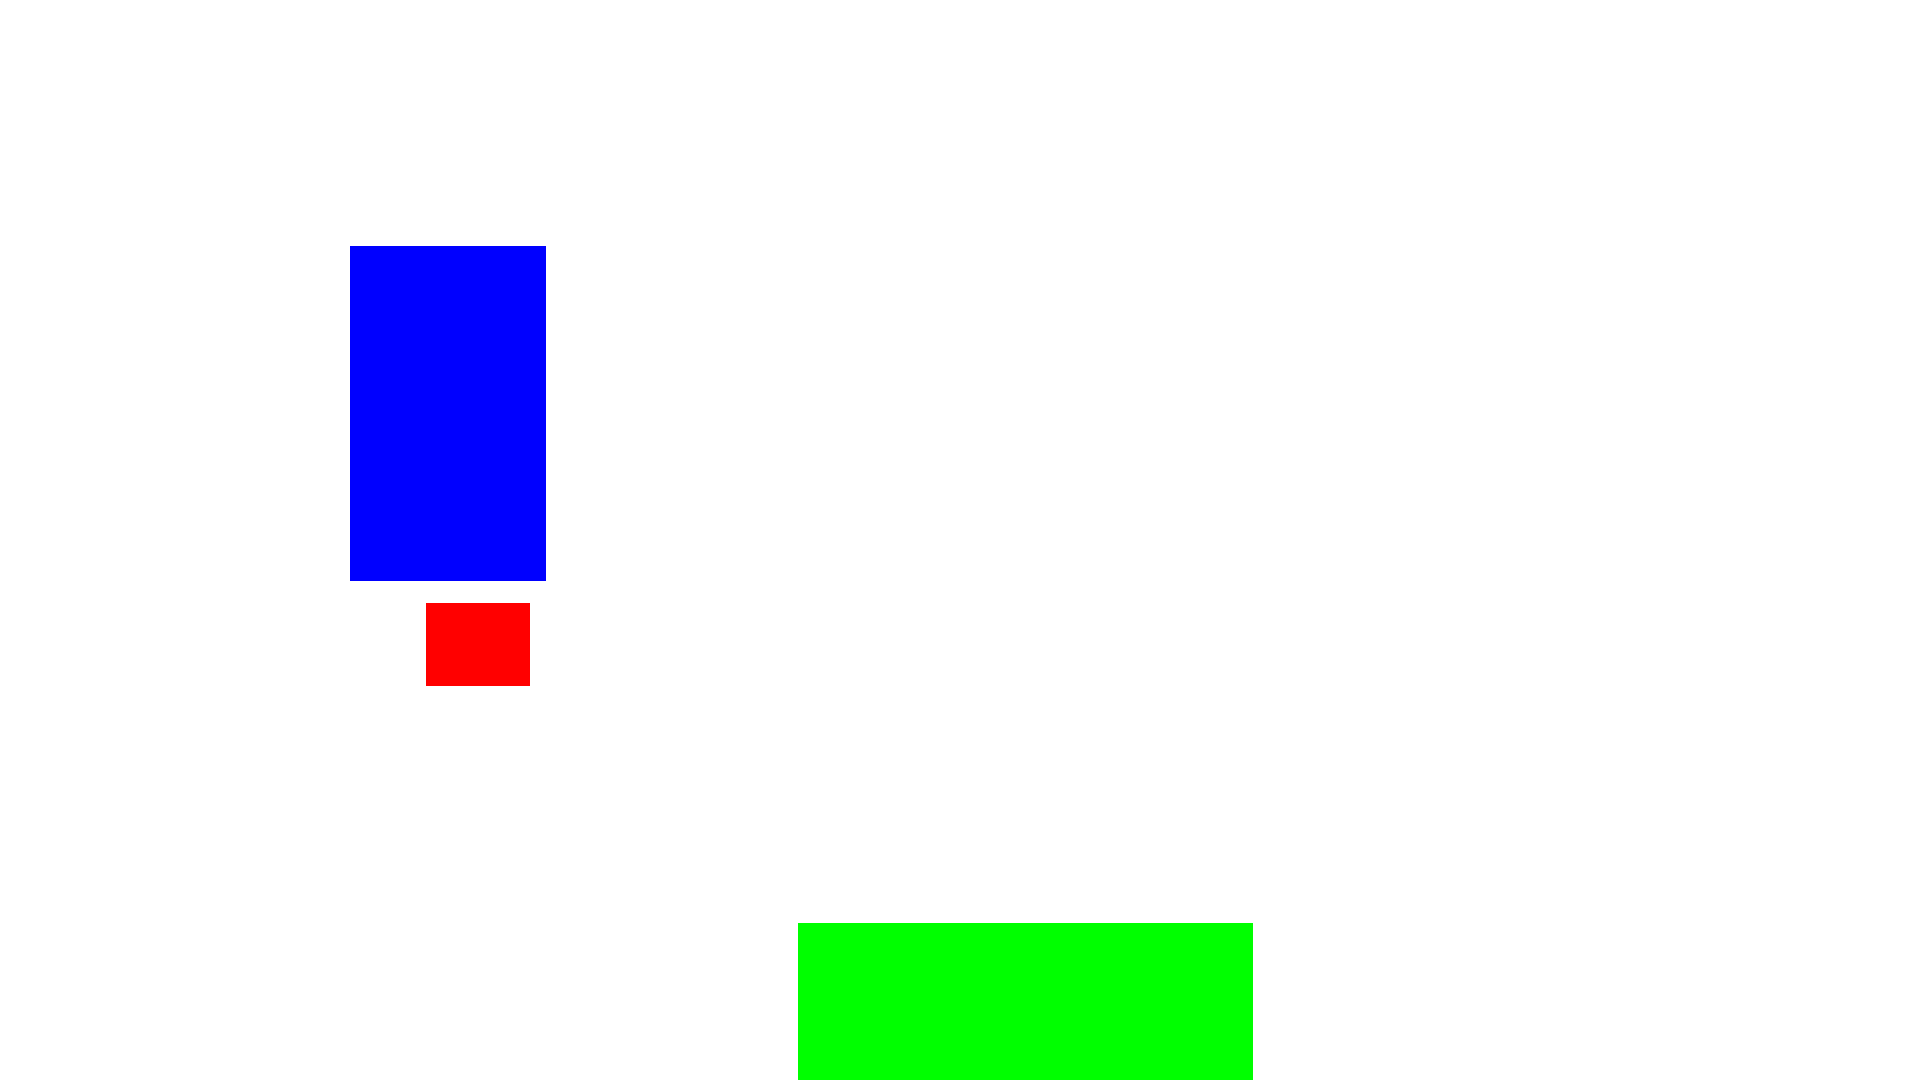
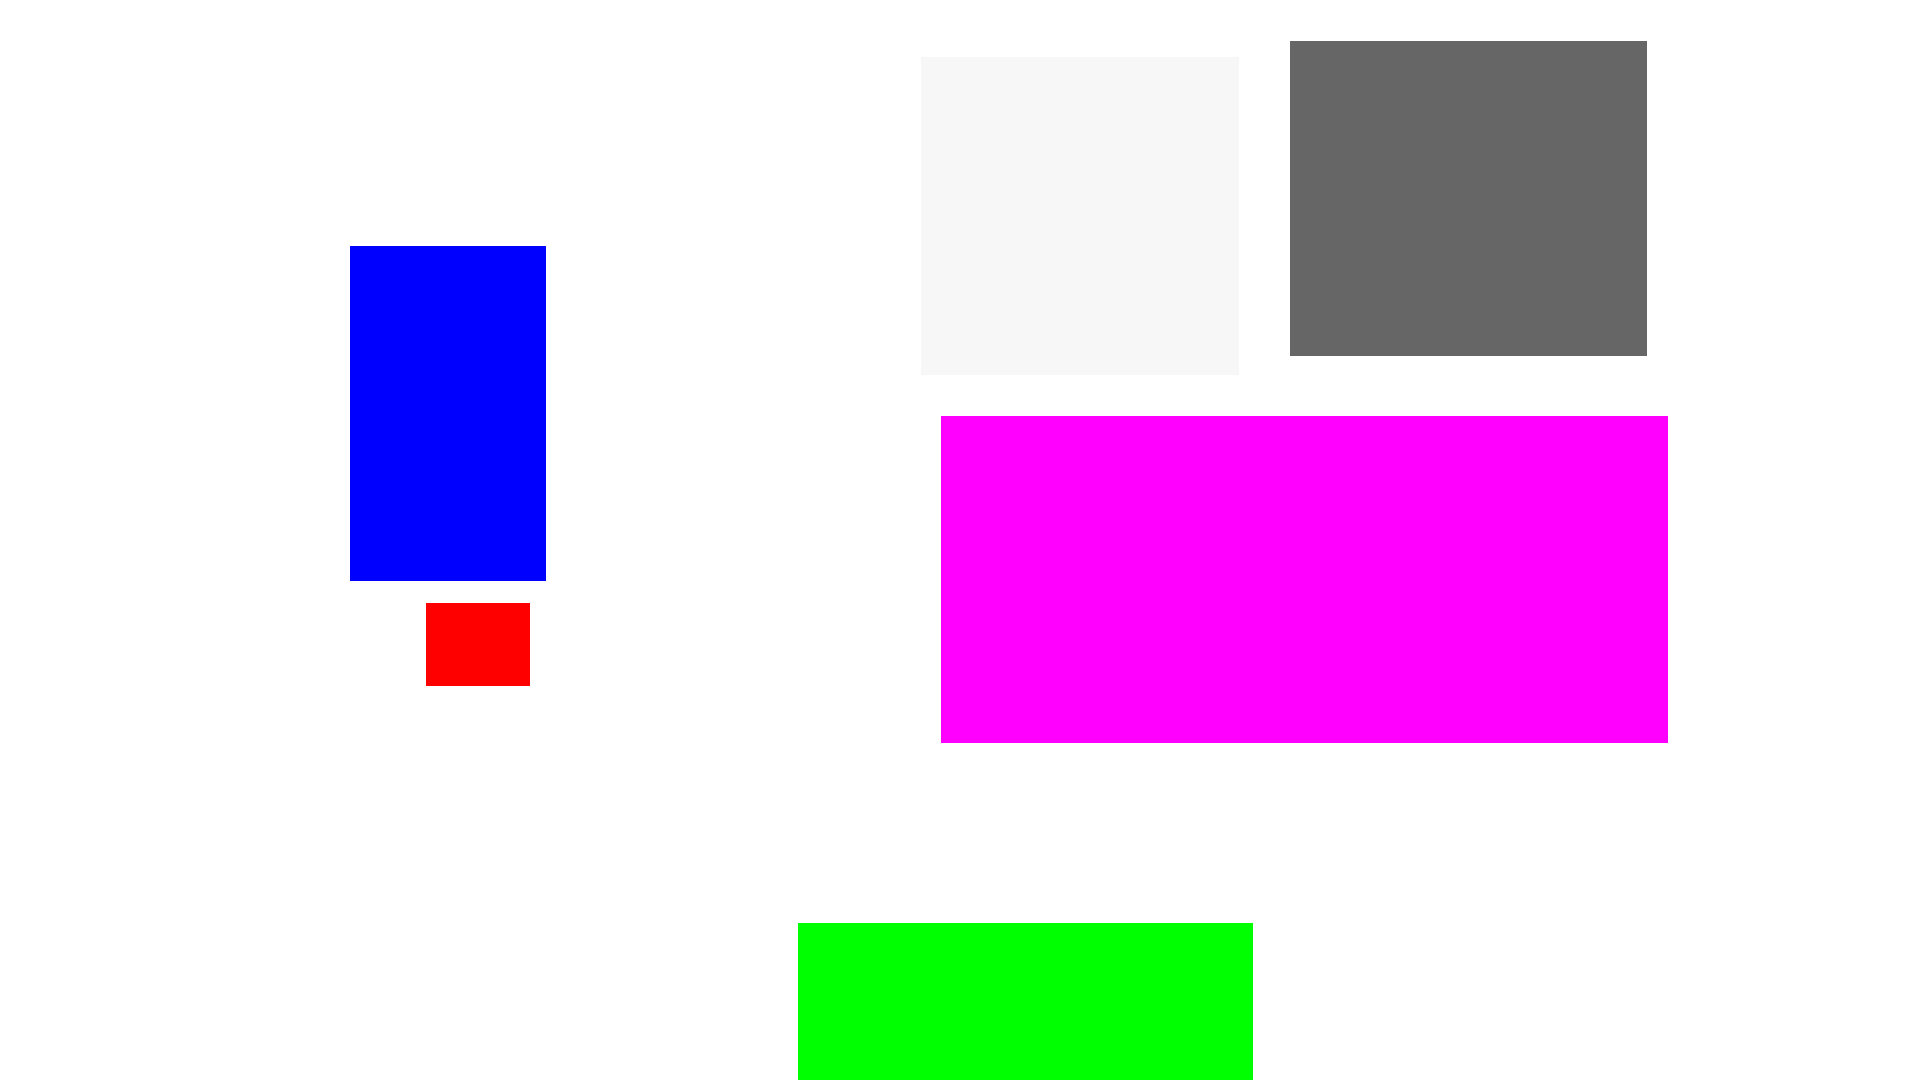
Commit from 2024-07-01_12:28:29

Changed region(s): [[0.4688, 0.3667, 0.875, 0.7028], [0.6562, 0.0306, 0.875, 0.3361]]

diff --git a/escaperoom/start-3.html b/escaperoom/start-3.html
@@ -243,7 +243,7 @@
                     performBlueAction();
                 } else if (r === 255 && g === 255 && b === 255) {
                     performWhiteAction();
-                } else if (r === 0 && g === 0 && b === 0) {
+                } else if (r === 102 && g === 102 && b === 102) {
                     performBlackAction();
                 } else if (r === 255 && g === 0 && b === 255) {
                     performMagentaAction();
